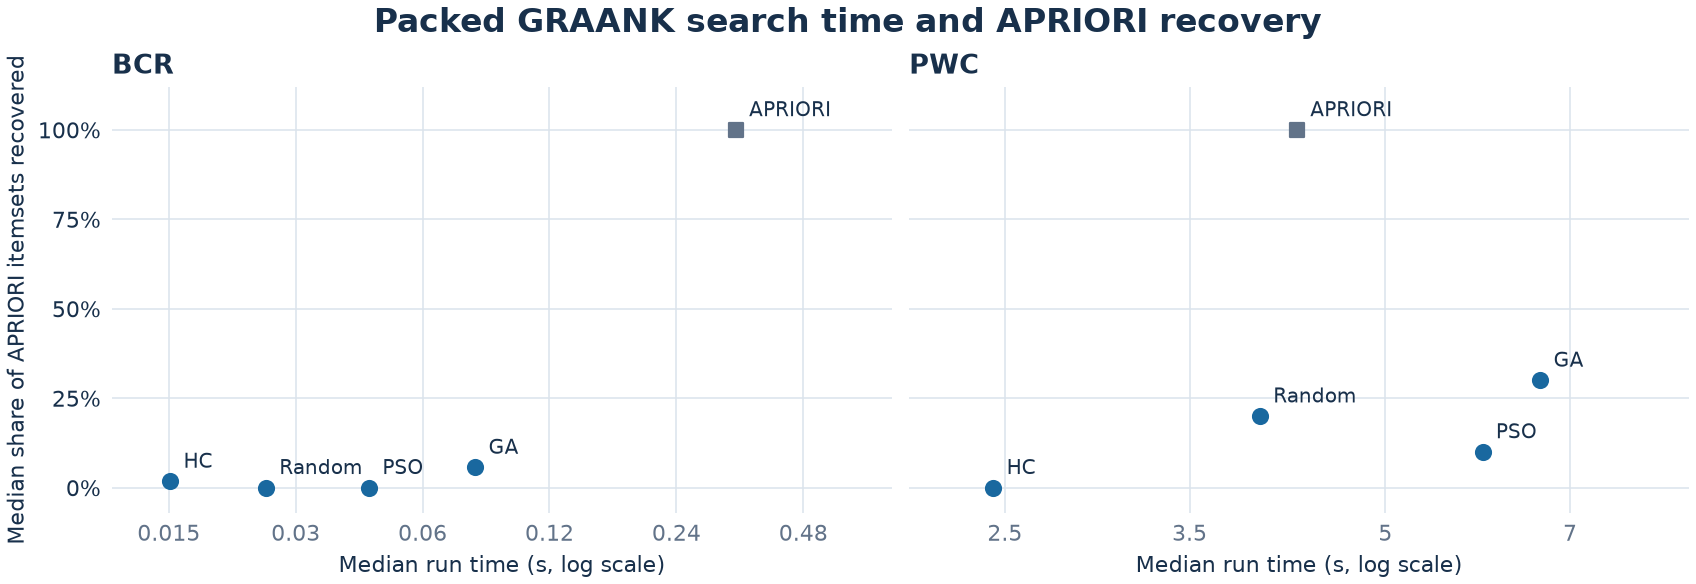
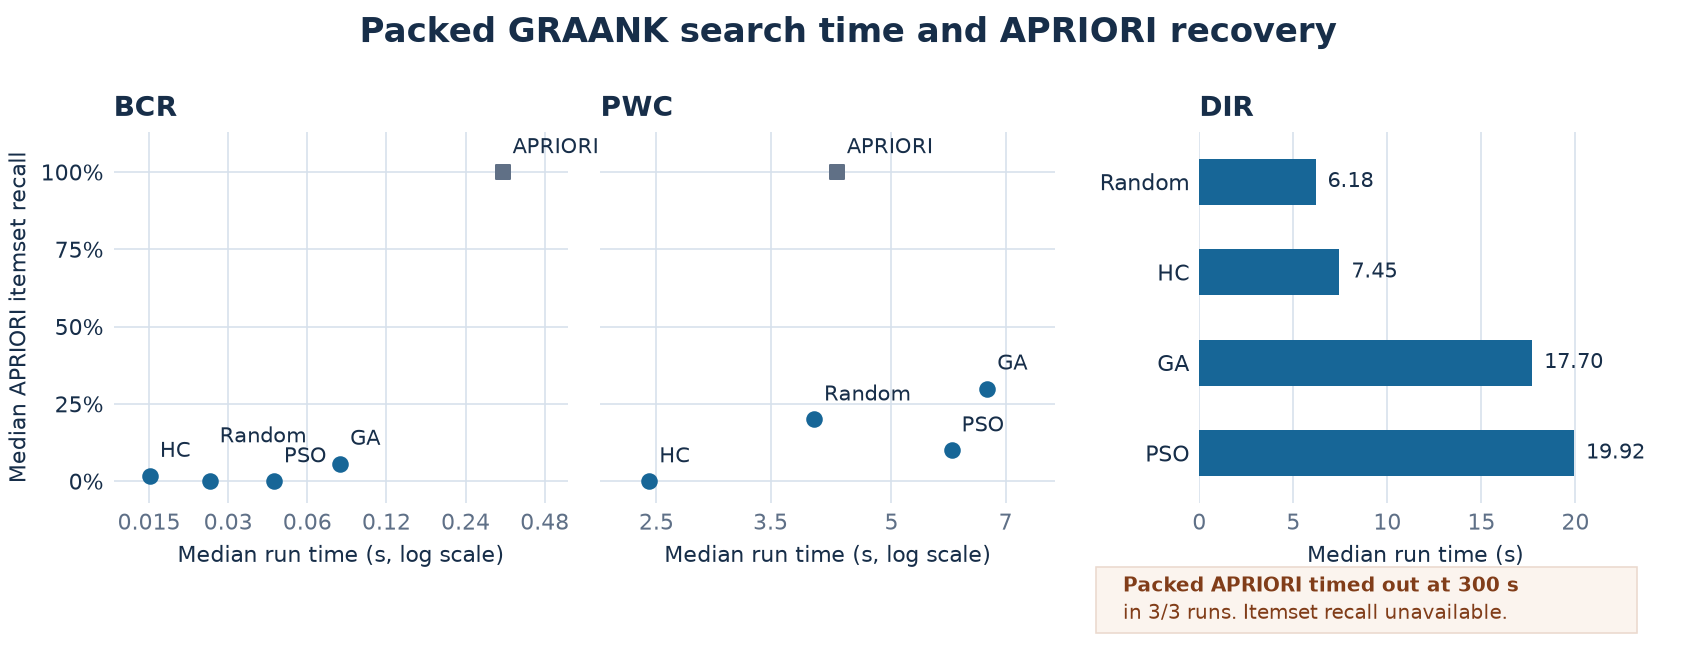
1.1.5: optimization results

diff --git a/benchmarks/optimization/README.md b/benchmarks/optimization/README.md
@@ -49,13 +49,12 @@ python -m benchmarks.optimization.benchmark --datasets BCR AQY --profile study -
 python benchmarks/optimization/benchmark.py --datasets BCR --search-types pso ga hc random --iterations 20
 ```
 
-For GRAANK, the default `full` profile uses all six datasets at their full
-prepared sizes and runs all five search types in both layouts. The defaults
-are support 0.2, one measured trial per search and bitmap method with seed 0,
-one discarded warm-up per trial, a 300-second worker timeout, and a best-effort
-memory limit of 6,144 MiB per worker.
-The `study` profile uses up to 1,000 rows, 12 features, and three seeds. The
-`quick` profile uses up to 64 rows, six features, and one seed.
+For GRAANK, the default `study` profile uses up to 5,000 rows per dataset,
+all usable numeric features, and seeds 0 through 2. It runs all five search
+types in both layouts at minimum support 0.2, with one discarded warm-up
+per trial, a 300-second timeout, and a best-effort memory limit of 6,144 MiB
+per worker. The `full` profile uses the full prepared datasets and one seed.
+The `quick` profile uses up to 64 rows, six features, and one seed.
 
 Use `--search-types` to select searches. `--iterations` sets the heuristic
 iteration budget and defaults to 10. `--apriori-level` sets an optional depth
@@ -80,7 +79,7 @@ in the same layout.
 | Elapsed time | Miner construction and the selected search |
 | Peak resident memory | Sampled worker process-tree RSS in bytes and MiB, including imports and result collection |
 | Valid patterns | Patterns returned by GRAANK |
-| Invalid patterns | Candidates rejected according to GRAANK's `Invalid Count` |
+| Invalid candidates | Candidate rejections recorded by GRAANK's `Invalid Count` |
 | Time and memory ratios | Baseline divided by comparison, using completed trials with matching inputs and seeds |
 | Itemset overlap | Jaccard index of returned patterns, treating a pattern and its global sign reversal as equivalent |
 | APRIORI output recall | Fraction of baseline APRIORI itemsets recovered by the comparison |
@@ -93,6 +92,81 @@ Resume a run with `--resume --output <same-run-folder>` and the original
 options, source, and data. The runner rebuilds the CSVs from `trials.jsonl`,
 skips saved trials, and retries any interrupted trial without a record.
 
+### Dense and packed APRIORI
+
+The saved study ran six datasets, three seeds, and a 10-iteration budget for
+each heuristic. The time and peak RSS columns show the median for each
+completed method. Paired speedup is the median of the dense-to-packed time
+ratios for matched seeds. [Run manifest](results/graank/manifest.json) · [Run summaries](results/graank/summary.csv) · [Paired summaries](results/graank/paired_summary.csv)
+
+| Dataset | Rows × features | Dense time (s) or outcome | Packed time (s) or outcome | Paired speedup | Median peak RSS, dense → packed (MiB) |
+| --- | ---: | ---: | ---: | ---: | ---: |
+| BCR | 116 × 9 | 21.506 | 0.332 | 66.13× | 374.7 → 373.5 |
+| PWC | 5,000 × 7 | 4.826 | 4.256 | 1.30× | 1,069.4 → 480.5 |
+| DIR | 5,000 × 16 | 6,144 MiB limit (3/3) | 300 s timeout (3/3) | — | — |
+
+![Dense and packed APRIORI run time and peak memory on BCR and PWC, with DIR marked as a memory-limit failure for dense and a timeout for packed.](results/graank/apriori_dense_vs_packed.png)
+
+BCR and PWC each had three completed pairs. Dense and packed APRIORI returned
+the same itemsets in all six pairs after accounting for full sign reversals.
+Packed APRIORI used about **55% less peak RSS** on PWC. Across the 15 completed
+comparisons that used the same search on AQY, C2K, DIR, and PWC, packed peak RSS
+was 47–67% lower by paired medians. Packed was faster in 14 of the 20 completed
+comparisons with the search held fixed. On C2K, hill climbing took 3.011 s dense
+and 14.698 s packed. [Paired summaries](results/graank/paired_summary.csv)
+
+Dense APRIORI hit the memory limit on AQY, APS, C2K, and DIR. Packed APRIORI hit
+the memory limit on AQY and APS and **timed out on all three seeds on both C2K
+and DIR**. Exhaustive search can still exceed the worker budget with packed
+bitmaps. [Trial records](results/graank/trials.jsonl)
+
+### Heuristic speed and pattern recovery
+
+The table compares searches using packed bitmaps. Pattern and invalid candidate
+counts are totals over the three seeds, and all returned patterns had reported
+support of at least 0.2. APRIORI recall is the median fraction of its distinct
+itemsets each search recovered at the same seed. [Run summaries](results/graank/summary.csv) · [Paired summaries](results/graank/paired_summary.csv)
+
+| Dataset | Search | Median time (s) | Paired speedup vs. APRIORI | Returned patterns | Invalid candidates | APRIORI recall |
+| --- | --- | ---: | ---: | ---: | ---: | ---: |
+| BCR | APRIORI | 0.332 | 1.00× | 174 | 2,791 | 100.00% |
+| BCR | Genetic algorithm (GA) | 0.080 | 4.15× | 23 | 41 | 5.66% |
+| BCR | Hill climbing (HC) | 0.015 | 17.56× | 7 | 1 | 1.75% |
+| BCR | Particle swarm optimization (PSO) | 0.045 | 6.53× | 2 | 100 | 0.00% |
+| BCR | Random search | 0.026 | 13.01× | 9 | 9 | 0.00% |
+| PWC | APRIORI | 4.256 | 1.00× | 30 | 176 | 100.00% |
+| PWC | Genetic algorithm (GA) | 6.632 | 0.56× | 20 | 27 | 30.00% |
+| PWC | Hill climbing (HC) | 2.448 | 1.74× | 4 | 0 | 0.00% |
+| PWC | Particle swarm optimization (PSO) | 5.970 | 0.61× | 11 | 67 | 10.00% |
+| PWC | Random search | 3.979 | 1.31× | 16 | 6 | 20.00% |
+
+![Packed search run time and APRIORI recall on BCR and PWC. The DIR panel shows completed heuristic run times and the packed APRIORI timeout across all three seeds.](results/graank/packed_search_tradeoff.png)
+
+On BCR, the four heuristic searches ran **4.15–17.56× faster** by paired
+medians, with a highest median APRIORI recall of **5.66%**. PSO returned two
+patterns and recorded 100 invalid candidates. On PWC, hill climbing and random
+search improved run time, while GA and PSO took longer. GA had the highest
+APRIORI recall on PWC at 30%.
+
+### DIR search results
+
+All four DIR heuristic searches completed on all three seeds in each layout.
+The paired speedup compares dense and packed versions of the same search.
+Speedup against APRIORI and APRIORI recall require a completed APRIORI baseline.
+[Run summaries](results/graank/summary.csv) · [Paired summaries](results/graank/paired_summary.csv)
+
+| Search | Dense median time (s) | Packed median time (s) | Paired speedup | Median peak RSS, dense → packed (MiB) | Returned patterns, dense → packed | Invalid candidates, dense → packed |
+| --- | ---: | ---: | ---: | ---: | ---: | ---: |
+| GA | 29.589 | 17.698 | 2.24× | 1,580.2 → 522.5 | 21 → 29 | 24 → 52 |
+| HC | 9.327 | 7.450 | 1.33× | 1,580.2 → 525.2 | 5 → 5 | 1 → 1 |
+| PSO | 52.684 | 19.923 | 2.78× | 1,579.7 → 524.9 | 3 → 2 | 0 → 100 |
+| Random search | 8.229 | 6.180 | 1.25× | 1,580.2 → 522.3 | 10 → 10 | 6 → 6 |
+
+On DIR, the packed heuristics achieved **1.25–2.78× paired speedups** and used
+about one-third of the dense peak RSS. Packed random search was fastest at
+**6.180 s**. Packed GA returned the most patterns, and packed PSO recorded
+the most invalid candidates.
+
 ## TGRAANK comparison on rainfall and EVI
 
 The temporal experiment uses the notebook's rainfall and Enhanced Vegetation
@@ -100,13 +174,12 @@ Index (EVI) CSVs. Each file has 23 annual observations from 2000 through 2022,
 with NRB, KAK, MAK, and WAJ as the four targets.
 
 ```powershell
-python benchmarks/optimization/benchmark.py --experiment temporal --warmups 0
-python benchmarks/optimization/tools/analyze_tgraank.py
+python benchmarks/optimization/benchmark.py --experiment temporal --profile full --warmups 0 --output benchmarks/optimization/results/tgraank-replication
+python benchmarks/optimization/tools/analyze_tgraank.py benchmarks/optimization/results/tgraank-replication
 ```
 
-Both commands use [`results/tgraank`](results/tgraank/) by default. To
-repeat the experiment in a separate folder, set `--output` on the benchmark
-and pass that directory to the analysis helper.
+Use a fresh output directory for each replication and pass the same path to
+the analysis helper. The saved runs are in [`results/tgraank`](results/tgraank/).
 
 All three methods mine fuzzy temporal gradual patterns with minimum support
 0.01 and initial minimum representativity 0.75. The worker calls SO4GP's
@@ -131,21 +204,38 @@ scores and reports their sample standard deviations.
 
 - [Per-site confusion counts and scores](results/tgraank/confusion_matrix.csv)
 - [Mean and standard deviation by algorithm](results/tgraank/metrics_summary.csv)
-- [Mean confusion matrices](results/tgraank/confusion_matrix.png)
 - [Runtime and memory by target](results/tgraank/summary.csv)
 
 ### Replication results
 
-The saved run completed 16 trials with SO4GP 1.1.2 and seed 0. Scores are
-percentages shown as mean ± sample standard deviation across the four sites.
-[Run manifest](results/tgraank/manifest.json)
+The saved run completed 24 trials with SO4GP 1.1.2 and seed 0, one per
+method, dataset, and site combination. The table sums confusion counts
+across sites. The heatmaps show mean counts per site.
+[Run manifest](results/tgraank/manifest.json) · [Per-site confusion counts](results/tgraank/confusion_matrix.csv)
 
-| Method | Accuracy | Precision | Recall | Specificity | F1 |
+| Method | True positives | False positives | False negatives | True negatives | Scored entries |
 | --- | ---: | ---: | ---: | ---: | ---: |
-| TGRAANK | 81.23 ± 9.26 | 56.46 ± 19.72 | 56.67 ± 20.73 | 87.65 ± 6.46 | 56.53 ± 20.17 |
-| TGRAANK-AMI | 84.18 ± 12.94 | 66.67 ± 27.22 | 66.67 ± 27.22 | 89.51 ± 8.62 | 66.67 ± 27.22 |
+| Classical TGRAANK | 34 | 26 | 26 | 229 | 315 |
+| TGRAANK with random shifts | 6 | 4 | 6 | 47 | 63 |
+| TGRAANK-AMI | 8 | 4 | 4 | 47 | 63 |
 
-AMI improved mean accuracy by **2.95 percentage points** and reduced false
-positives and false negatives from 6.5 to 1.0 each per site on average.
-Accuracy rose at KAK, NRB, and WAJ. At MAK it fell from 76.92% to 69.23%.
+![Mean confusion matrices for classical TGRAANK, AMI, and random shifts. Rows are EVI reference classes and columns are rainfall prediction classes.](results/tgraank/confusion_matrix.png)
+
+Scores are mean percentages ± sample standard deviation across the four
+equally weighted sites. Each method supplies its own set of mined patterns
+for scoring. [Metric summary](results/tgraank/metrics_summary.csv)
+
+| Method | Accuracy (%) | Precision (%) | Recall (%) | Specificity (%) | F1 (%) |
+| --- | ---: | ---: | ---: | ---: | ---: |
+| Classical TGRAANK | 81.23 ± 9.26 | 56.46 ± 19.72 | 56.67 ± 20.73 | 87.65 ± 6.46 | 56.53 ± 20.17 |
+| TGRAANK with random shifts | 79.54 ± 16.43 | 58.33 ± 28.87 | 50.00 ± 33.33 | 88.43 ± 12.12 | 53.33 ± 31.27 |
+| TGRAANK-AMI | **84.18 ± 12.94** | **66.67 ± 27.22** | **66.67 ± 27.22** | **89.51 ± 8.62** | **66.67 ± 27.22** |
+
+![Accuracy, precision, recall, specificity, and F1 by TGRAANK method. Points are site averages and error bars show one sample standard deviation.](results/tgraank/classification_metrics.png)
+
+AMI had the highest mean on all five metrics. Its mean accuracy was
+**2.95 percentage points above classical TGRAANK** and **4.64 points above
+random shifts**. Mean F1 rose by 10.14 and 13.33 points, respectively.
+Accuracy improved over classical at KAK, NRB, and WAJ. At MAK it fell
+from 76.92% to 69.23%.
 [Per-site scores](results/tgraank/confusion_matrix.csv)

diff --git a/README.md b/README.md
@@ -117,9 +117,9 @@ The default output is the format of JSON:
 
 ## Benchmarks
 
-- [Causal discovery benchmark](benchmarks/causal_discovery/README.md) and [archived CausalRivers results](benchmarks/causal_discovery/README.md)
-- [Joint-effect benchmark and results](benchmarks/joint_effect/README.md)
-- [Optimization benchmark and results](benchmarks/optimization/README.md)
+- [Causal discovery benchmark](benchmarks/causal_discovery/README.md) and [archived CausalRivers results](benchmarks/causal_discovery/causalrivers/README.md)
+- [Joint-effect benchmark](benchmarks/joint_effect/README.md)
+- [GRAANK and TGRAANK optimization benchmark](benchmarks/optimization/README.md)
 
 ## Contributors ✨
 
